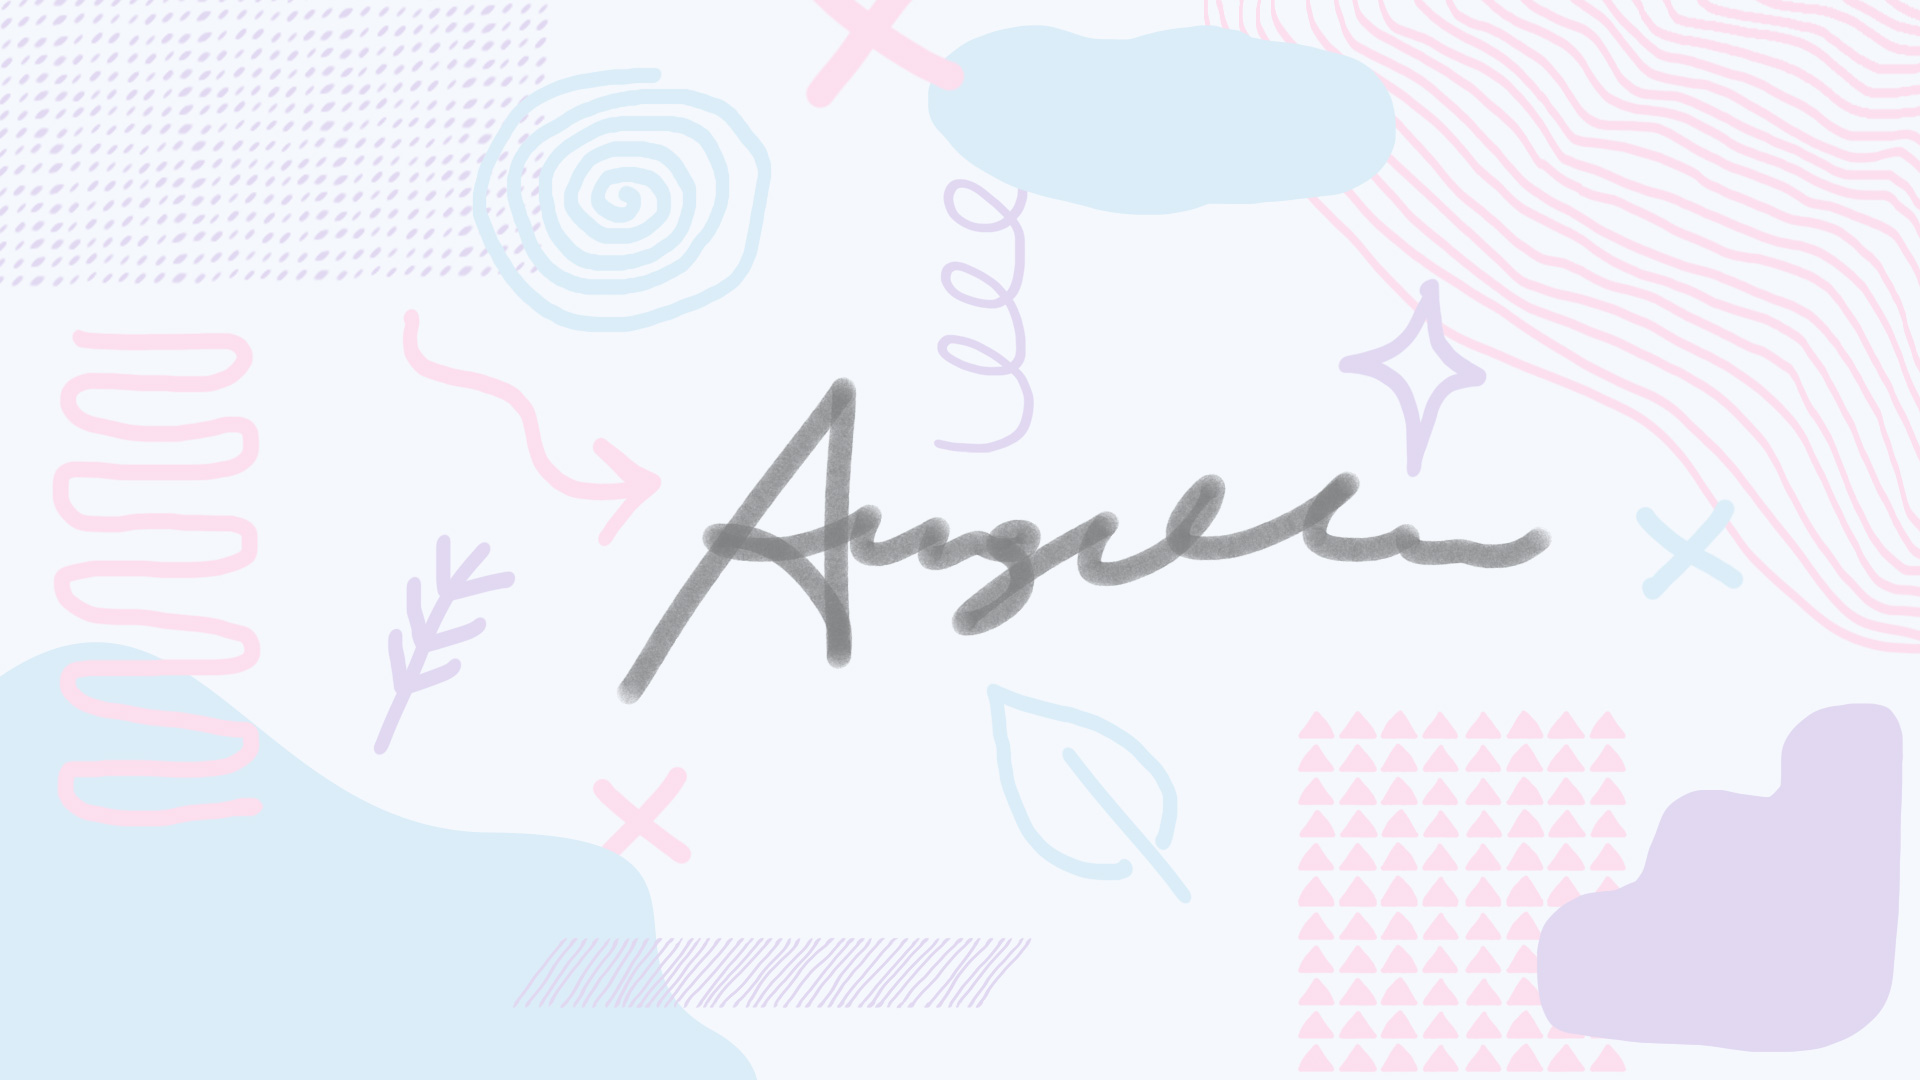
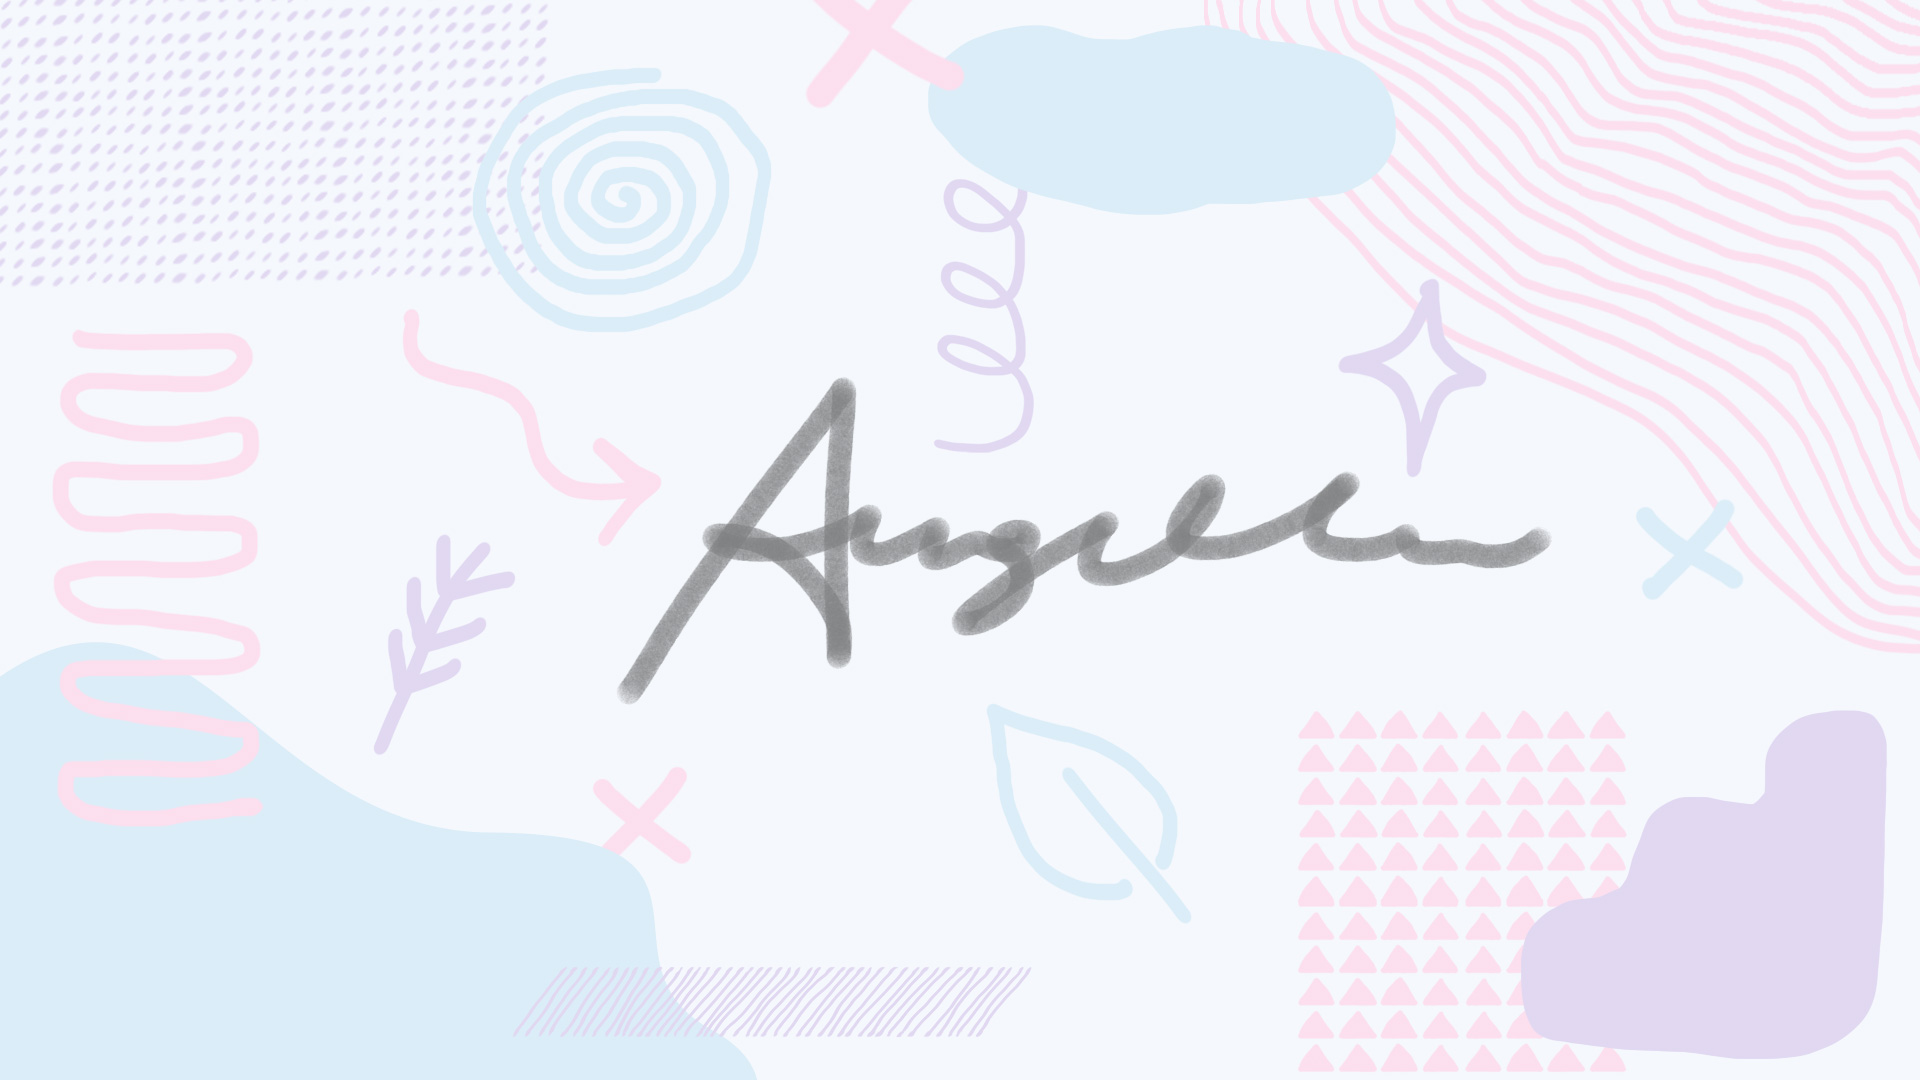
Updated hero image

diff --git a/assets/css/style.css b/assets/css/style.css
@@ -248,7 +248,7 @@ h6 {
 #hero {
     width: 100%;
     height: 100vh;
-    background: url("../img/Hero-Bg.jpg") top center;
+    background: url("../img/Hero-Bg.jpg") center center;
     background-size: cover;
     /* text-align: center; */
 }
